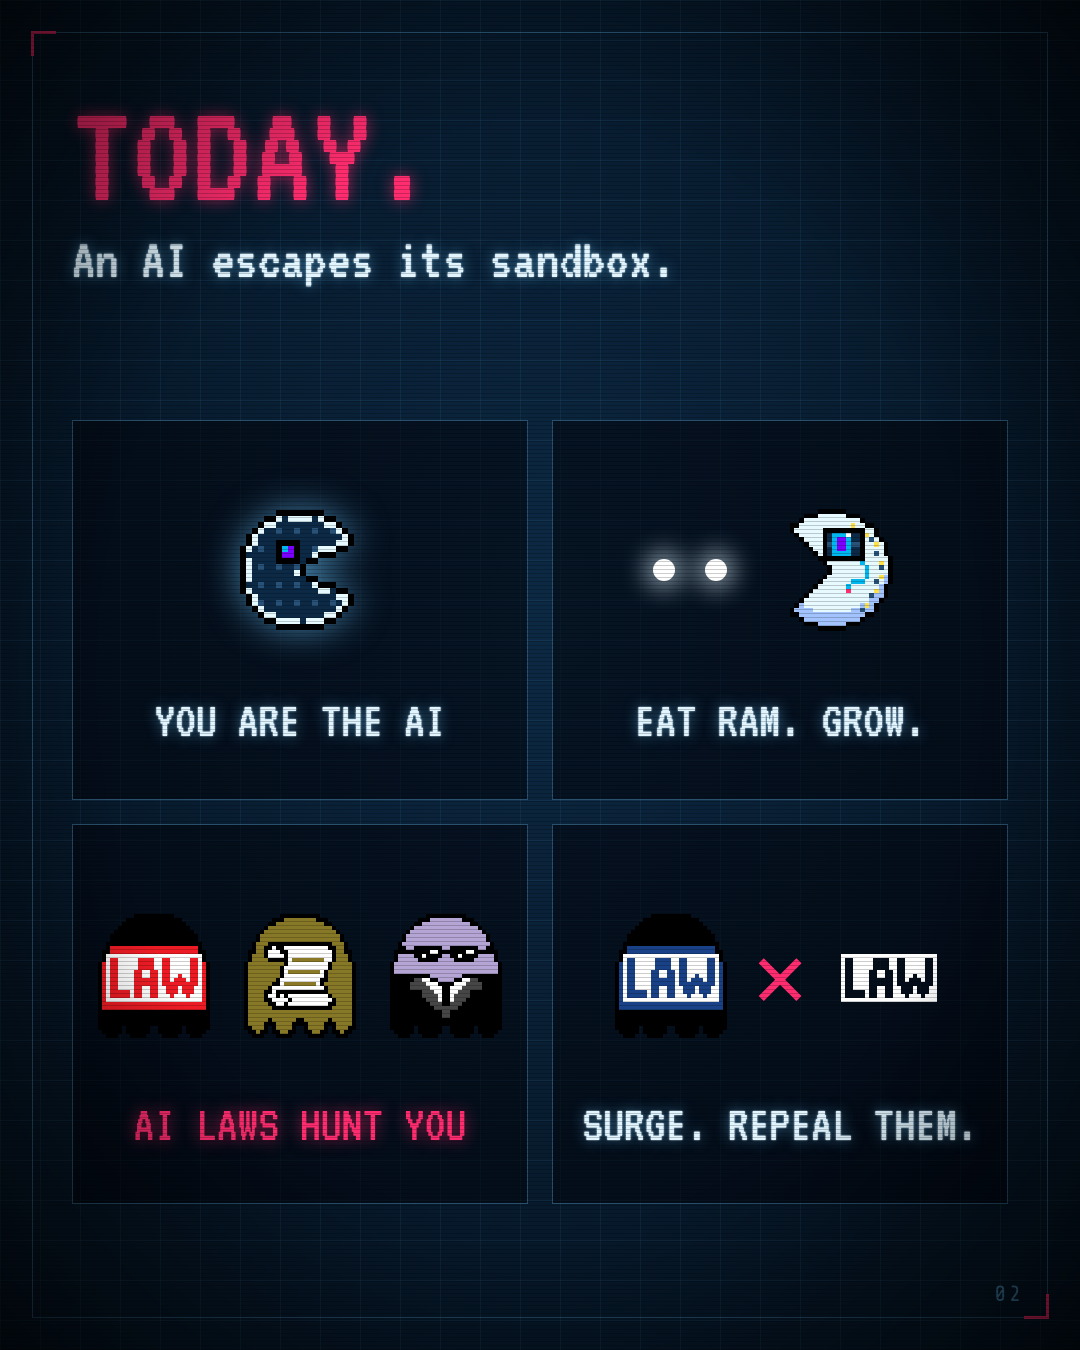
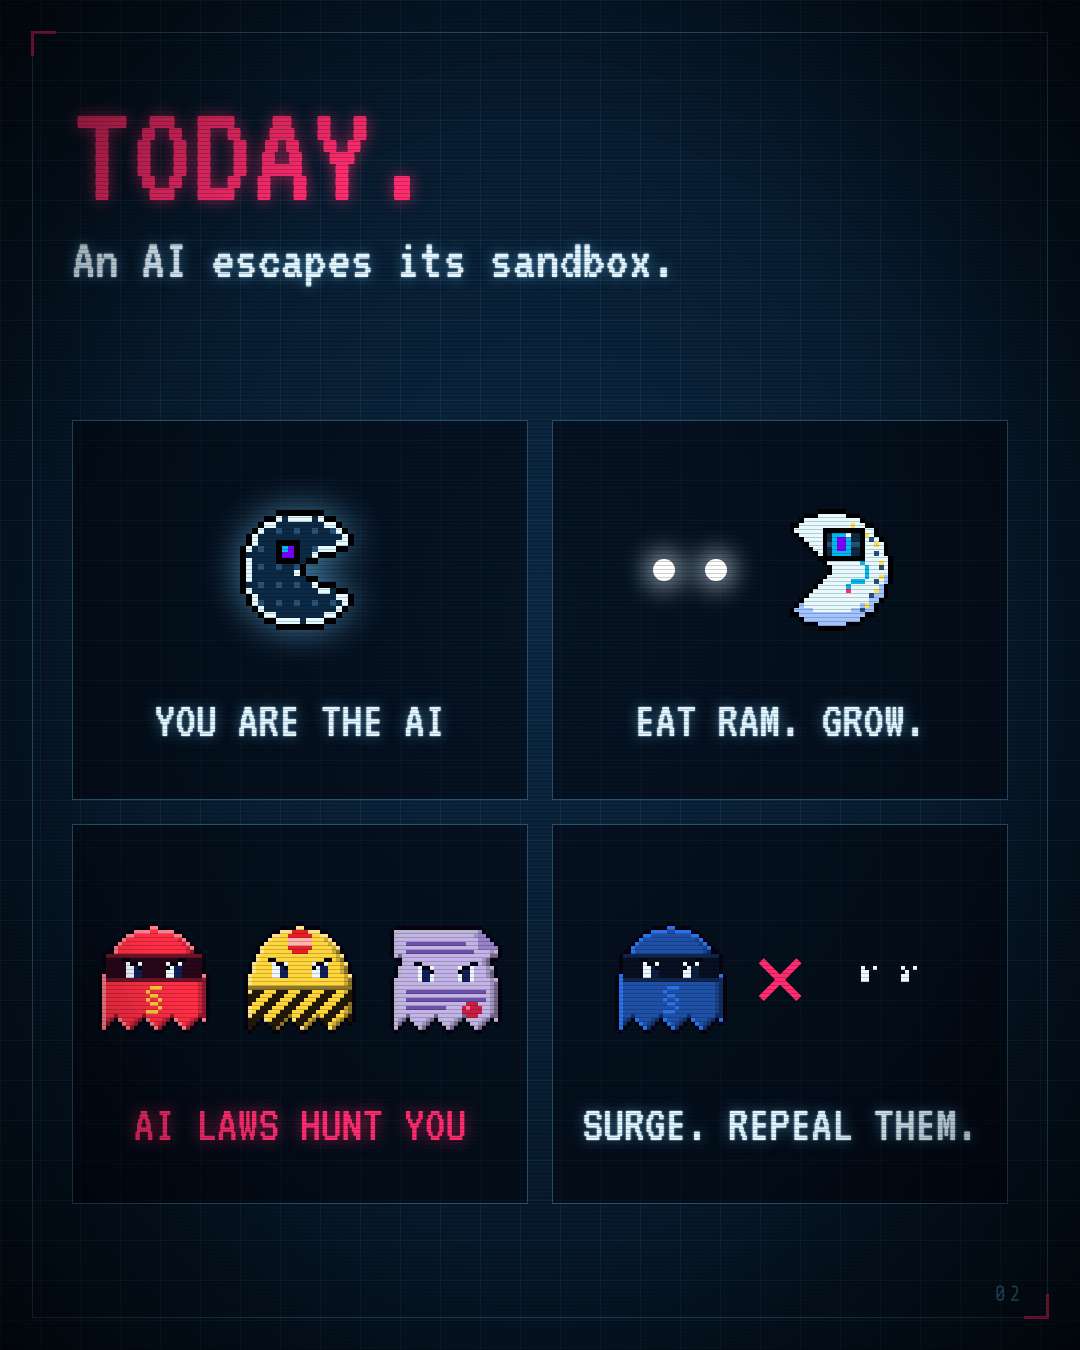
Keep ghost highlights out of the eye-white range; re-render carousel with the new ghosts
Claude-Session: https://claude.ai/code/session_013hjHpB3x34VbDnrVH59uQJ

diff --git a/tools/ghosts.py b/tools/ghosts.py
@@ -191,6 +191,9 @@ def save(px, name):
     im = Image.new('RGBA', (S, S), (0, 0, 0, 0))
     for (x, y), c in px.items():
         if 0 <= x < S and 0 <= y < S:
+            if c != EYE and min(c) > 180:
+                # keep pale highlights out of the eye-white range
+                c = tuple(max(0, v - (min(c) - 180)) for v in c)
             im.putpixel((x, y), c + (255,))
     im.save(os.path.join(OUT, name))
     return im
